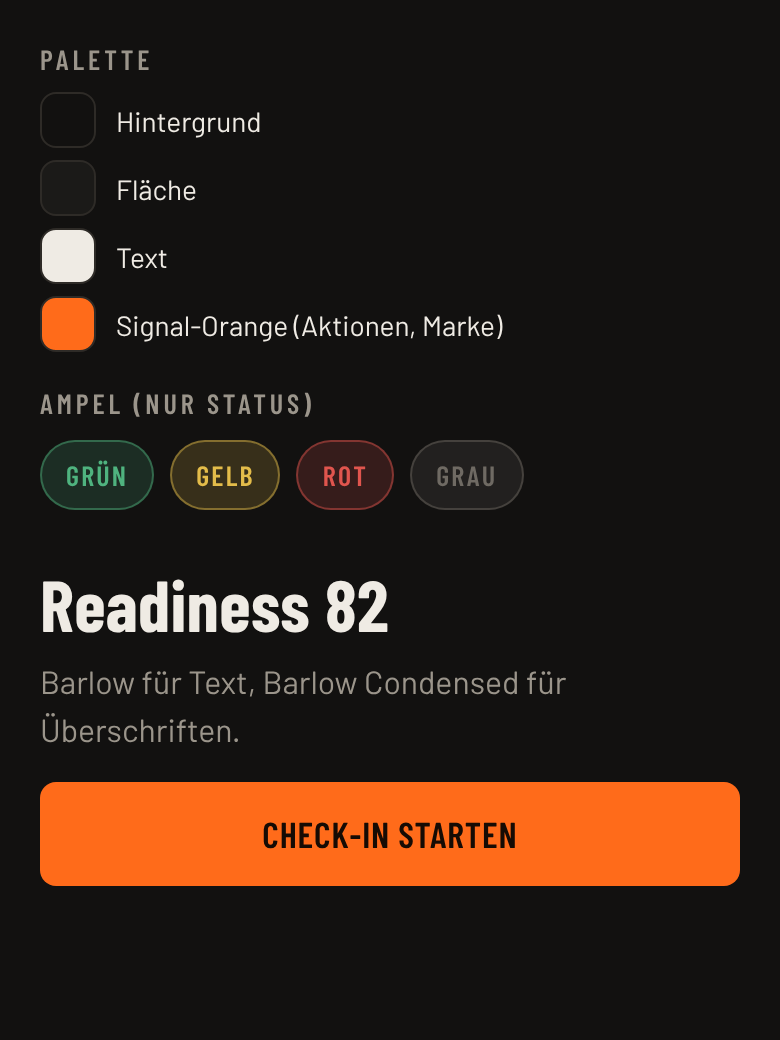
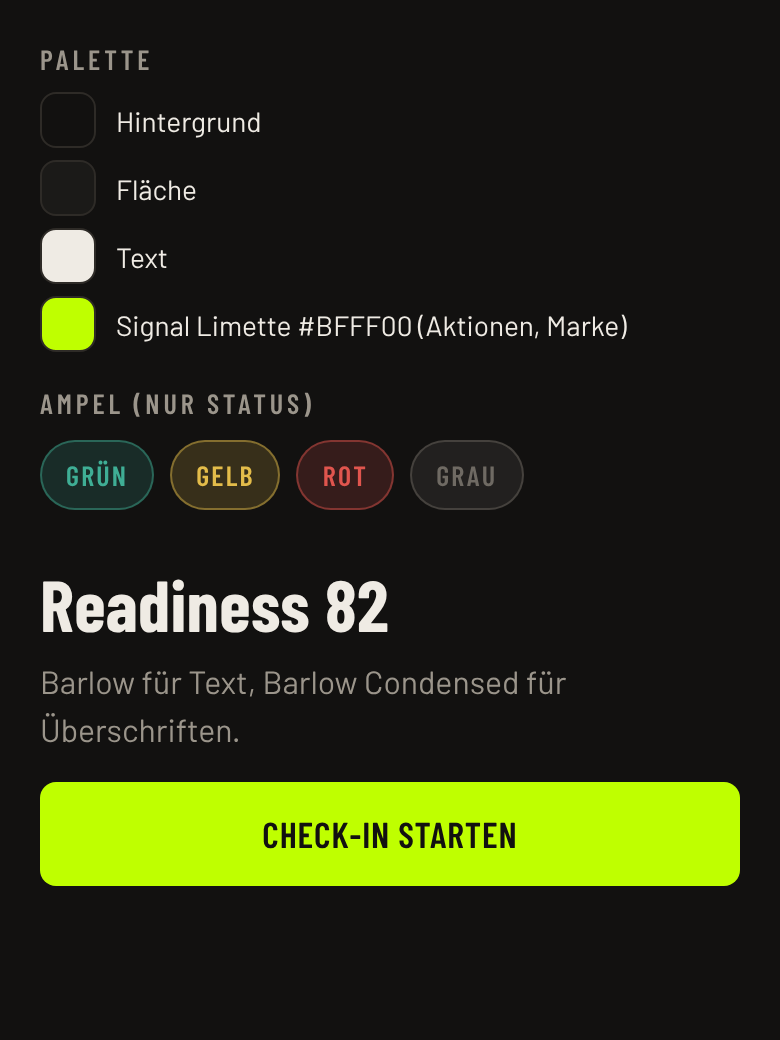
CI: Limettengrün #BFFF00 als Signalton statt Orange
Ampel-Grün kühler (Richtung Türkis), damit es sich vom Signalton abhebt.

Claude-Session: https://claude.ai/code/session_01RYTjgB2w4bvbdJDH2weNhe

Changed region(s): [[0.0308, 0.7385, 0.9538, 0.8615], [0.2462, 0.3077, 0.8, 0.3385], [0.0308, 0.2769, 0.1231, 0.3385]]

diff --git a/src/app/globals.css b/src/app/globals.css
@@ -3,8 +3,9 @@
 /*
  * FormPeak. – CI (siehe CLAUDE.md › Design)
  * Dunkel als Standard. Warmes Graphit statt Schwarz, gebrochenes Weiß statt Reinweiß.
- * Orange ist der einzige Signalton: Aktionen, Marke, Fokus – nie für Status.
+ * Limettengrün ist der einzige Signalton: Aktionen, Marke, Fokus – nie für Status.
  * Ampelfarben (grün/gelb/rot) sind eigene, gedämpfte Töne und nur für den Belastungsstatus.
+ * Das Ampel-Grün ist bewusst kühler (Richtung Türkis), damit es nicht mit dem Limettengrün verwechselt wird.
  */
 :root {
   color-scheme: dark;
@@ -16,13 +17,13 @@
   --foreground: #efebe4;
   --muted: #9b958b;
 
-  --primary: #ff6b1a;
-  --primary-hover: #ff8136;
-  --primary-foreground: #160b04;
+  --primary: #bfff00;
+  --primary-hover: #d2ff4d;
+  --primary-foreground: #121110;
 
   --danger: #f06a5f;
 
-  --light-green: #4fb37f;
+  --light-green: #3fae95;
   --light-yellow: #e3bc4a;
   --light-red: #e0554e;
   --light-grey: #6f6a63;

diff --git a/src/features/shell/wordmark.tsx b/src/features/shell/wordmark.tsx
@@ -1,5 +1,5 @@
 /**
- * Wortmarke „FormPeak.“ – kursiv, kondensiert, Punkt in Signal-Orange.
+ * Wortmarke „FormPeak.“ – kursiv, kondensiert, Punkt in Limettengrün.
  * Der Punkt gehört zum Namen; Name ohne Punkt nicht als Logo verwenden.
  */
 export function Wordmark({ className = "" }: { className?: string }) {

diff --git a/CLAUDE.md b/CLAUDE.md
@@ -31,14 +31,15 @@ wird. Die Ampel wird nie von der KI überstimmt. Die App stellt keine Diagnosen.
 ## Design (CI)
 
 - **Name:** immer „FormPeak.“ mit Punkt. Als Logo nur die Komponente `Wordmark`
-  (Barlow Condensed, fett, kursiv, Punkt in Orange). Im Fließtext lieber „die App“, damit kein
+  (Barlow Condensed, fett, kursiv, Punkt in Limettengrün). Im Fließtext lieber „die App“, damit kein
   Punkt mitten im Satz steht.
 - **Dunkel als Standard** (`color-scheme: dark`). Warmes Graphit statt Schwarz, gebrochenes Weiß
   statt Reinweiß. Farben nur über die Tokens in `src/app/globals.css`, keine Hex-Werte in Komponenten.
-- **Orange (`primary`) ist der einzige Signalton:** Aktionen, Marke, Fokus, aktiver Tab.
-  Nie für Status oder Warnungen.
+- **Limettengrün `#BFFF00` (`primary`) ist der einzige Signalton:** Aktionen, Marke, Fokus,
+  aktiver Tab. Nie für Status oder Warnungen. Text auf Limette immer dunkel (`primary-foreground`).
 - **Ampelfarben** (`light-green`, `light-yellow`, `light-red`, `light-grey`) nur für den
   Belastungsstatus, gedämpft und meist als Tönung (Hintergrund ca. 18 %, Rand ca. 45 %).
+  Das Ampel-Grün ist kühl (Richtung Türkis), damit es sich klar vom Limettengrün abhebt.
 - **Schrift:** Barlow für Text, Barlow Condensed für Überschriften, Zahlen und Buttons
   (Buttons und Kleinüberschriften in Großbuchstaben, `.eyebrow`).
 - **Kein „KI-Look“:** keine Verläufe, kein Glow, keine Glas-Effekte, keine Emojis als Icons,
